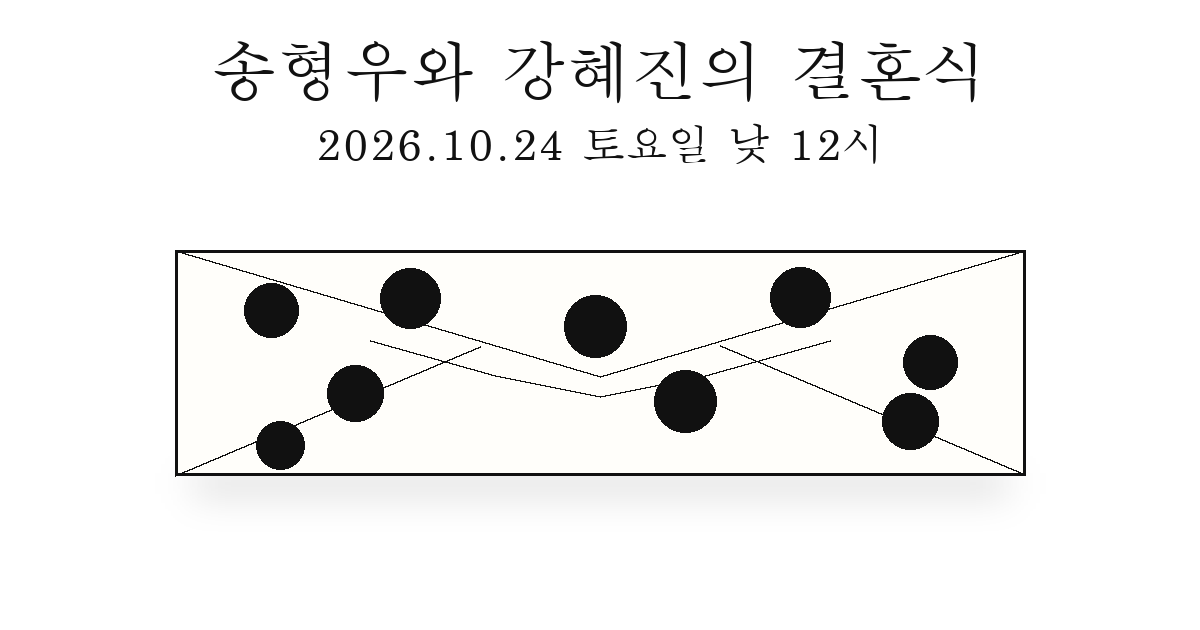
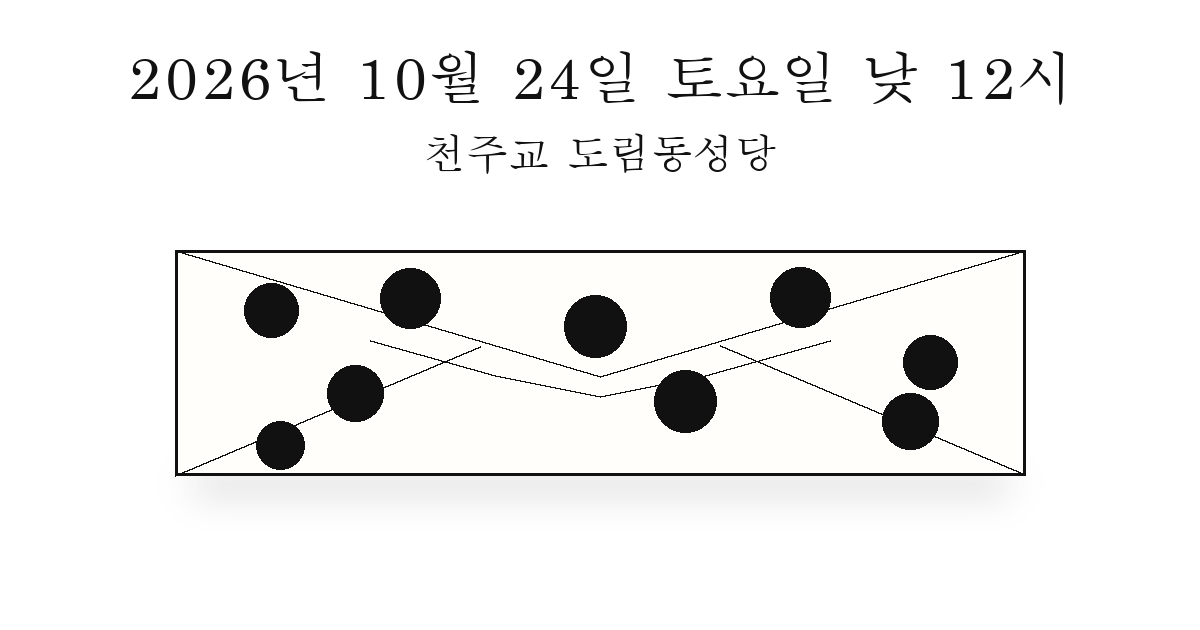
Apply wedding invitation polish pass

Changed region(s): [[0.2467, 0.0603, 0.8942, 0.2714], [0.0925, 0.0603, 0.4008, 0.181]]

diff --git a/scripts/generate_wedding_og_card.py b/scripts/generate_wedding_og_card.py
@@ -10,17 +10,17 @@ FONT_MYUNGJO = '/System/Library/Fonts/Supplemental/AppleMyungjo.ttf'
 def font(size):
     return ImageFont.truetype(FONT_MYUNGJO, size)
 
-title_font = font(66)
-date_font = font(43)
+date_font = font(58)
+place_font = font(42)
 
 img = Image.new('RGB', (W, H), '#ffffff')
 d = ImageDraw.Draw(img)
 cx = W // 2
 
-# Exactly the requested elements: Korean title, date, and the dotted envelope.
+# Thumbnail elements: date, place, and the dotted envelope.
 for text, y, f in [
-    ('송형우와 강혜진의 결혼식', 38, title_font),
-    ('2026.10.24 토요일 낮 12시', 122, date_font),
+    ('2026년 10월 24일 토요일 낮 12시', 48, date_font),
+    ('천주교 도림동성당', 132, place_font),
 ]:
     bbox = d.textbbox((0, 0), text, font=f)
     d.text((cx - (bbox[2]-bbox[0]) / 2, y), text, font=f, fill='#111111')
